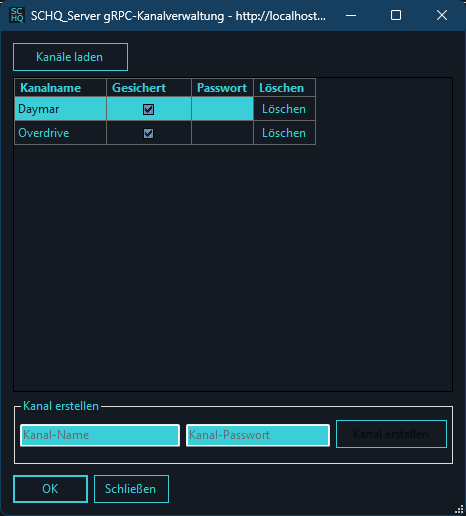
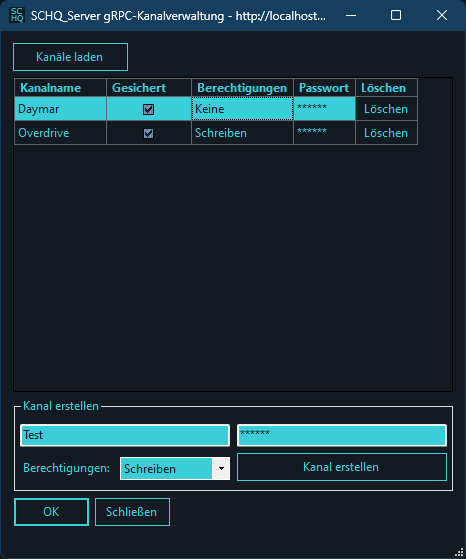
Screenshot aktualisiert + Dokumentation

Changed region(s): [[0.03, 0.7132, 0.9914, 0.9922], [0.0, 0.0, 0.9914, 0.2791]]

diff --git a/README.md b/README.md
@@ -54,6 +54,7 @@ https://discord.com/invite/WmzNY3mCm6
   - __gRPC Server-URL:__ Hier kann die vollständige URL eines gRPC-Servers (`SCHQ_Server`) angegeben werden, um die Beziehungen mit anderen Benutzern zu synchronisieren
   - __gRPC Server-Kanal:__ Hier kann der zu verwendende Kanal angegeben werden, welcher für den gRPC-Server verwendet werden soll. Alle Benutzer, die den gleichen Kanal verwenden, synchronisieren die Beziehungen untereinander.
   - __Zahnrad-Schaltfläche:__ Wenn eine `gRPC Server-URL` angegeben wurde, können bei Klick auf diese Schaltfläche die gRPC-Kanäle verwaltet werden (siehe SCHQ_Server gRPC-Kanalverwaltung).
+  - __gRPC Kanal-Passwort:__ Angabe des Kanalpassworts (nötig, wenn der Kanal so konfiguriert ist, dass man ohne Angabe des Passworts keine Berechtigungen hat)
   - __gRPC-Synchronisierung bei Programmstart:__ Angabe, ob beim Programmstart die Synchronisierung automatisch gestartet werden soll
 ### Log-Monitor
 - __Log-Monitor anzeigen:__ Angabe, ob der Log-Monitor angezeigt werden soll
@@ -76,11 +77,13 @@ Auf dem gRPC-Kanalverwaltung Fenster können die Kanäle eines gRPC-Servers verw
 - __Kanäle-Tabelle:__ Hier werden die Kanäle des gRPC-Servers aufgelistet.
   - __Kanalname:__ Name des Kanals
   - __Gesichert:__ Angabe, ob bei der Erstellung des Kanals ein Passwort festgelegt wurde
+  - __Berechtigungen:__ Angabe, welche Berechtigungen ein Client  ohne Angabe des Passworts hat
   - __Passwort:__ Hier kann via Mausdoppelklick oder durch Aktivierung via `F2`-Taste das Passwort des Kanals eingegeben werden, um einen gesicherten Kanal löschen zu können.
   - __Löschen:__ Mit dieser Schaltfläche kann der Kanal gelöscht werden. Bei gesicherten Kanälen muss zuvor das Passwort eingegeben werden.
 - __Kanal erstellen:__ In diesem Bereich kann ein neuer Kanal erstellt werden.
   - __Kanal-Name:__ Hier kann der Name des zu erstellenden Kanals eingegeben werden.
   - __Kanal-Passwort:__ Hier kann das Passwort des zu erstellenden Kanals eingegeben werden. Wenn kein Passwort angegeben wird, ist der Kanal nicht gesichert.
+  - __Berechtigungen:__ Hier können die Berechtigungen festgelegt werden, welche ein Client ohne Angabe des Passworts hat
   - __Kanal erstellen Schaltfläche:__ Mit dieser Schaltfläche kann der Kanal erstellt werden.
 - __OK-Schaltfläche:__ Mit dieser Schaltfläche wird das Fenster geschlossen und der in der Tabelle ausgewählte Kanal auf das Einstellungen-Fenster übernommen.
 - __Schließen-Schaltfläche:__ Mit dieser Schaltfläche wird das Fenster geschlossen. Dabei wird der in der Tabelle ausgewählte Kanal nicht auf das Einstellungen-Fenster übernommen.
